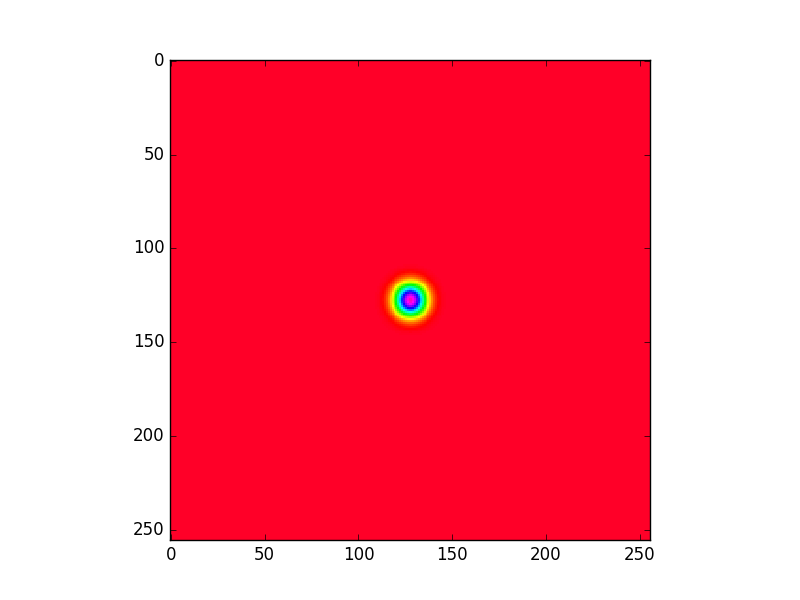
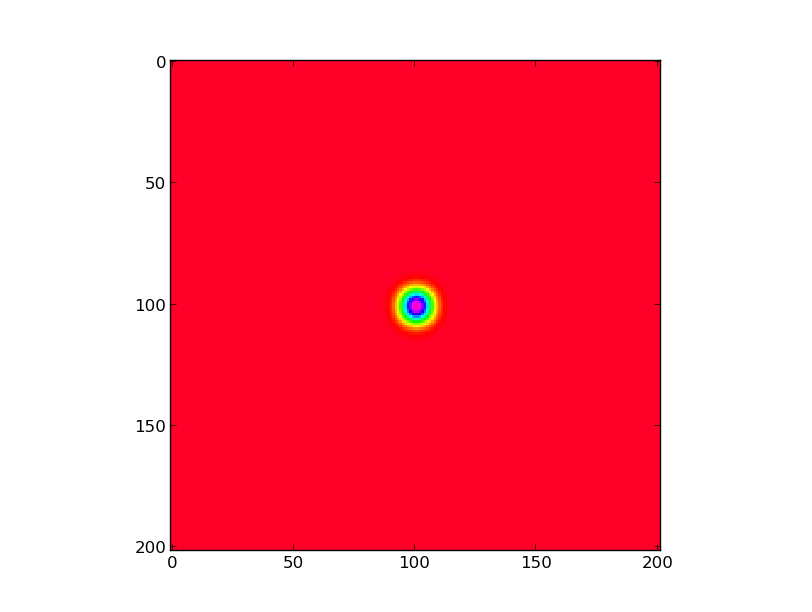
done halo

Changed region(s): [[0.1562, 0.09, 0.8438, 0.93], [0.4688, 0.45, 0.5625, 0.54]]

diff --git a/12_HW_Wave_MPIwithCUDA/wave_mpi.c b/12_HW_Wave_MPIwithCUDA/wave_mpi.c
@@ -7,10 +7,10 @@
 
 #define XMAX 1.0
 #define YMAX 1.0
-#define NX 256
-#define NY 256
+#define NX 202
+#define NY 202
 #define V 0.1
-#define NT 100
+#define NT 1000
 #define A 1000.0
 #define DT 0.035
 
@@ -25,6 +25,7 @@ void init_variables(float *wave2d_u0,float *wave2d_u1, float _dx, int _rank);
 void sync_halo(float *_wave2d_u1, float *_my_send_halo, float *_my_recv_halo, int _rank, MPI_Request _request[], MPI_Status _status[]);
 void stepWave(float *_wave2d_u0, float *_wave2d_u1, float *_wave2d_u2, float *_my_recv_halo, int _rank, float _C2);
 void updateWave(float *_wave2d_u0, float *_wave2d_u1, float *_wave2d_u2, int _rank);
+
 
 int main(int argc, char** argv){
 	int rank, size;
@@ -61,7 +62,6 @@ int main(int argc, char** argv){
     for (unsigned int t_i=0; t_i < NT; t_i++){
         sync_halo(wave2d_u1, my_send_halo, my_recv_halo, rank, request, status);
         stepWave(wave2d_u0, wave2d_u1, wave2d_u2, my_recv_halo, rank, C2);
-        // for (unsigned int i=0; i<NX; i++) printf("wave2d_u2[%d] = %f \n", i, wave2d_u2[i]);
         updateWave(wave2d_u0, wave2d_u1, wave2d_u2, rank);
     }
     // collect and write file
@@ -73,8 +73,6 @@ int main(int argc, char** argv){
     MPI_Finalize();
     return 0;
 }
-
-
 
 void writeFile(float *_map){
 	FILE *file;
@@ -90,7 +88,6 @@ void writeFile(float *_map){
 	fclose(file);
 }
 
-
 void init_variables(float *_wave2d_u0,float *_wave2d_u1, float _dx, int _rank){
     float x_now, y_now;
     for (unsigned int iy=0; iy<NY/2; iy++){
@@ -102,7 +99,6 @@ void init_variables(float *_wave2d_u0,float *_wave2d_u1, float _dx, int _rank){
         }
     }
 }
-
 
 void sync_halo(float *_wave2d_u1, float *_my_send_halo, float *_my_recv_halo, int _rank, MPI_Request _request[], MPI_Status _status[]){
     for (unsigned int i_x=0; i_x<NX; i_x++){

diff --git a/12_HW_Wave_MPIwithCUDA/visualize.py b/12_HW_Wave_MPIwithCUDA/visualize.py
@@ -1,9 +1,12 @@
 import numpy as np
+import matplotlib
+matplotlib.use('TkAgg')
 import matplotlib.pyplot as plt
 import matplotlib.cm as cm
 
-temp = np.loadtxt('wave2d_map.dat').T #Transposed for easier unpacking
-nrows, ncols = 256, 256
+# temp = np.loadtxt('wave2d_cudampi_map.dat').T
+temp = np.loadtxt('wave2d_map.dat').T
+nrows, ncols = 202, 202
 x = [i for i in range(nrows)]
 u = [i for i in range(ncols)]
 

diff --git a/12_HW_Wave_MPIwithCUDA/wave_cudaMpi.h b/12_HW_Wave_MPIwithCUDA/wave_cudaMpi.h
@@ -2,11 +2,10 @@
 #define WAVE_CUDAMPI
 
 
-
 #define XMAX 1.0
 #define YMAX 1.0
-#define NX 256
-#define NY 256
+#define NX 202
+#define NY 202
 #define V 0.1
 #define NT 1000
 #define A 1000.0
